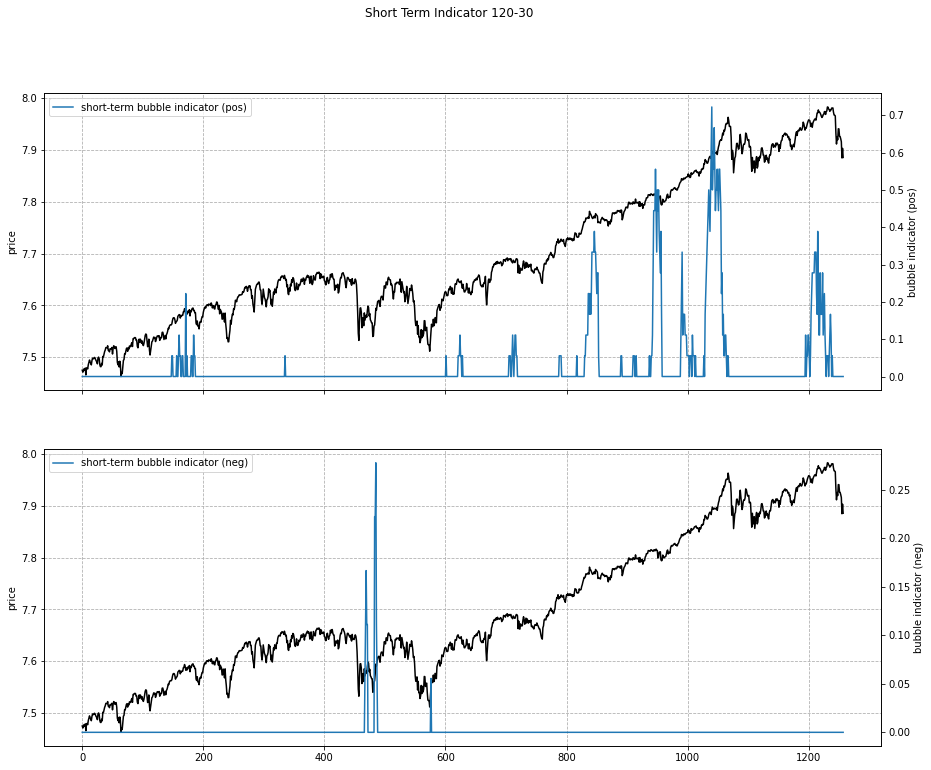
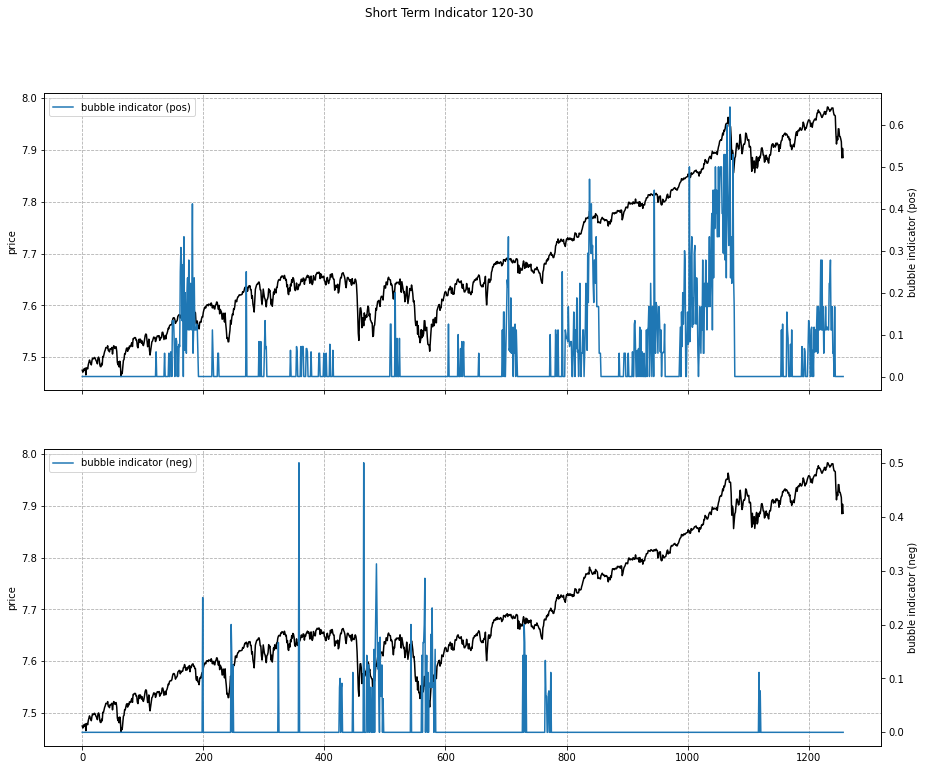
add new method `res_to_df` to provide an easy way to store suite of fits (#41)

diff --git a/lppls/lppls.py b/lppls/lppls.py
@@ -168,42 +168,19 @@ class LPPLS(object):
         Returns:
             nothing, should plot the indicator
         """
-        price = self.observations[1, :]
-        n = len(price) - len(res)
-        pos_fits = [0] * n
-        neg_fits = [0] * n
-        pos_conf_lst = [0] * n
-        neg_conf_lst = [0] * n
-        for r in res:
-            pos_count = 0
-            neg_count = 0
-            pos_true_count = 0
-            neg_true_count = 0
-            for fits in r:
-                if fits['sign'] > 0:
-                    pos_count += 1
-                    if fits['qualified'][condition_name]:
-                        pos_true_count += 1
-                if fits['sign'] < 0:
-                    neg_count += 1
-                    if fits['qualified'][condition_name]:
-                        neg_true_count = neg_true_count + 1
-            # pos_conf_lst.append(pos_true_count / len(r))
-            # neg_conf_lst.append(neg_true_count / len(r))
-            pos_conf_lst.append(pos_true_count / pos_count if pos_count > 0 else 0)
-            neg_conf_lst.append(neg_true_count / neg_count if neg_count > 0 else 0)
+        res_df = self.res_to_df(res, condition_name)
 
         fig, (ax1, ax2) = plt.subplots(nrows=2, ncols=1, sharex=True, figsize=(15, 12))
         fig.suptitle(title)
         # plot pos bubbles
         ax1_0 = ax1.twinx()
-        ax1.plot(price, color='black')
-        ax1_0.plot(pos_conf_lst, label='bubble indicator (pos)')
+        ax1.plot(res_df['price'].values, color='black')
+        ax1_0.plot(res_df['pos_conf'].values, label='bubble indicator (pos)')
 
         # plot neg bubbles
         ax2_0 = ax2.twinx()
-        ax2.plot(price, color='black')
-        ax2_0.plot(neg_conf_lst, label='bubble indicator (neg)')
+        ax2.plot(res_df['price'].values, color='black')
+        ax2_0.plot(res_df['neg_conf'].values, label='bubble indicator (neg)')
 
         # set grids
         ax1.grid(which='major', axis='both', linestyle='--')
@@ -329,3 +306,49 @@ class LPPLS(object):
         tc_init_min = t_last - pct_delta_min
         tc_init_max = t_last + pct_delta_max
         return tc_init_min, tc_init_max
+
+    def res_to_df(self, res, condition_name):
+        """
+        Args:
+            res (list): result from mp_compute_indicator
+            condition_name (str): the name you assigned to the filter condition in your config
+        Returns:
+            pd.DataFrame()
+        """
+        idx = self.observations[0, :]
+        price = self.observations[1, :]
+        n = len(price) - len(res)
+        # pos_fits = [0] * n
+        # neg_fits = [0] * n
+        pos_conf_lst = [0] * n
+        neg_conf_lst = [0] * n
+        fits_ = [0] * n
+
+        for r in res:
+            pos_count = 0
+            neg_count = 0
+            pos_true_count = 0
+            neg_true_count = 0
+            for fits in r:
+
+                if fits['sign'] > 0:
+                    pos_count += 1
+                    if fits['qualified'][condition_name]:
+                        pos_true_count += 1
+                if fits['sign'] < 0:
+                    neg_count += 1
+                    if fits['qualified'][condition_name]:
+                        neg_true_count = neg_true_count + 1
+            # pos_conf_lst.append(pos_true_count / len(r))
+            # neg_conf_lst.append(neg_true_count / len(r))
+            fits_.append(fits)
+            pos_conf_lst.append(pos_true_count / pos_count if pos_count > 0 else 0)
+            neg_conf_lst.append(neg_true_count / neg_count if neg_count > 0 else 0)
+
+        return pd.DataFrame({
+            'idx': idx,
+            'price': price,
+            'pos_conf': pos_conf_lst,
+            'neg_conf': neg_conf_lst,
+            'fit_params': fits_,
+        }).set_index('idx')

diff --git a/lppls/tests/test_data_loader.py b/lppls/tests/test_data_loader.py
@@ -1,9 +1,11 @@
 import data_loader
-import pandas as pd
+import pytest
 
 
 def test_sp500():
     # Test that stream loads
     data = data_loader.sp500()
-    assert data.iloc[0].values.tolist() == ['2013-10-30', 1772.27002, 1775.219971, 1757.2399899999998, 1763.310059,
-                                            1763.310059, 3523040000]
+    actual = data.iloc[0].values.tolist()
+    expected = ['2013-10-30', 1772.27002, 1775.219971, 1757.2399899999998, 1763.310059,
+                1763.310059, 3523040000]
+    assert all([a == pytest.approx(b, 1e6) for a, b in zip(actual, expected)])

diff --git a/setup.py b/setup.py
@@ -4,7 +4,7 @@ with open("README.md", "r") as fh:
     long_description = fh.read()
 
 setuptools.setup(name='lppls',
-      version='0.4.6',
+      version='0.4.7',
       description='A Python module for fitting the LPPLS model to data.',
       packages=['lppls'],
       author='Josh Nielsen',

diff --git a/lppls/data_loader.py b/lppls/data_loader.py
@@ -6,4 +6,4 @@ def sp500():
     # This is a stream-like object. If you want the actual info, call
     # stream.read()
     stream = pkg_resources.resource_stream(__name__, 'data/sp500.csv')
-    return pd.read_csv(stream, encoding='latin-1')
+    return pd.read_csv(stream, encoding='utf-8')

diff --git a/README.md b/README.md
@@ -40,6 +40,7 @@ Dependencies
  - NumPy (>= 1.17.0)
  - Pandas (>= 0.25.0)
  - SciPy (>= 1.3.0)
+ - Pytest (>= 6.2.1)
 
 User installation
 ```
@@ -90,7 +91,7 @@ lppls_model.plot_fit()
 filter_conditions_config = [
   {'condition_1':[
       (0.0, 0.1), # tc_range
-      (-1,1), # m_range
+      (0,1), # m_range
       (4,25), # w_range
       2.5, # O_min
       0.5, # D_min
@@ -99,7 +100,7 @@ filter_conditions_config = [
 
 # compute the confidence indicator
 res = lppls_model.mp_compute_indicator(
-    workers=1, 
+    workers=4, 
     window_size=120, 
     smallest_window_size=30, 
     increment=5, 
@@ -112,6 +113,13 @@ lppls_model.plot_confidence_indicators(res, condition_name='condition_1', title=
 # should give a plot like the following...
 ```
 ![LPPLS Confidnce Indicator](https://github.com/Boulder-Investment-Technologies/lppls/raw/master/img/sp500_confidence_indicator.png)
+
+If you wish to store `res` as a pd.DataFrame, use `res_to_df`.
+```python
+res_df = lppls_model.res_to_df(res, condition_name='condition_1')
+res_df.tail()
+```
+![res_to_fit](https://github.com/Boulder-Investment-Technologies/lppls/raw/master/img/res_to_df.png)
 
 ## References
  - Filimonov, V. and Sornette, D. A Stable and Robust Calibration Scheme of the Log-Periodic Power Law Model. Physica A: Statistical Mechanics and its Applications. 2013
